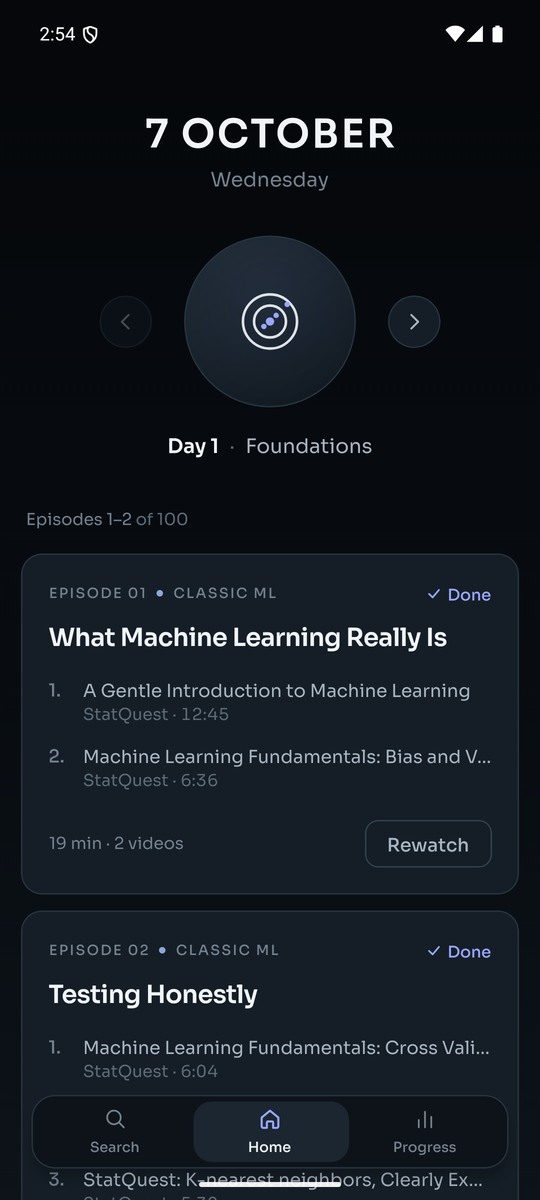
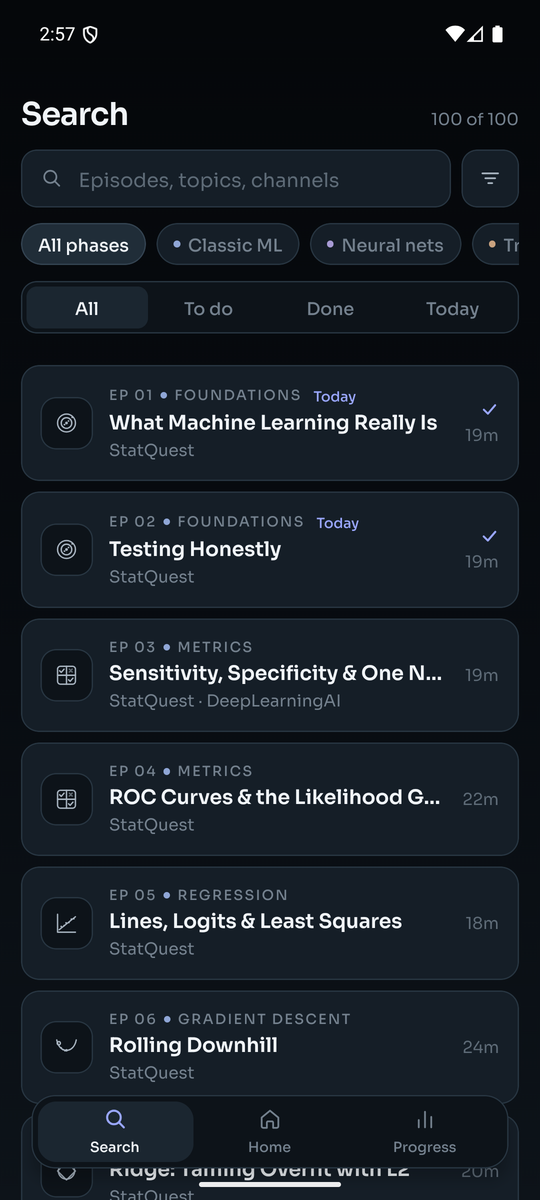
Search: 'Today' tag follows the same daily pair as Home; real search screenshot
Claude-Session: https://claude.ai/code/session_01L7SDWEEqP1N9pGCHkFBYwX

diff --git a/src/screens/Search.tsx b/src/screens/Search.tsx
@@ -4,7 +4,6 @@ import { useSafeAreaInsets } from 'react-native-safe-area-context';
 import { EPISODES, Episode, PHASES, Phase } from '../data/plan';
 import { TOPIC_LABEL, TopicGlyph } from '../components/illustrations';
 import { useStore } from '../lib/store';
-import { todayView } from '../lib/schedule';
 import { C, FONT, PHASE_COLOR, R, S, T, fmtMins } from '../theme';
 import { Surface } from '../components/Surface';
 import { EpisodeCard } from '../components/EpisodeCard';
@@ -77,7 +76,7 @@ export function Search() {
   const [open, setOpen] = useState<Episode | null>(null);
 
   const query = q.trim().toLowerCase();
-  const todays = todayView(p, today).shown;
+  const todays = p.days[today]?.base ?? []; // the same pair Home opens on
   const extraFilters = (kind !== 'all' ? 1 : 0) + (len !== 'all' ? 1 : 0) + (sort !== 'plan' ? 1 : 0);
   const anyFilter = !!query || phase !== 0 || status !== 'all' || extraFilters > 0;
 
